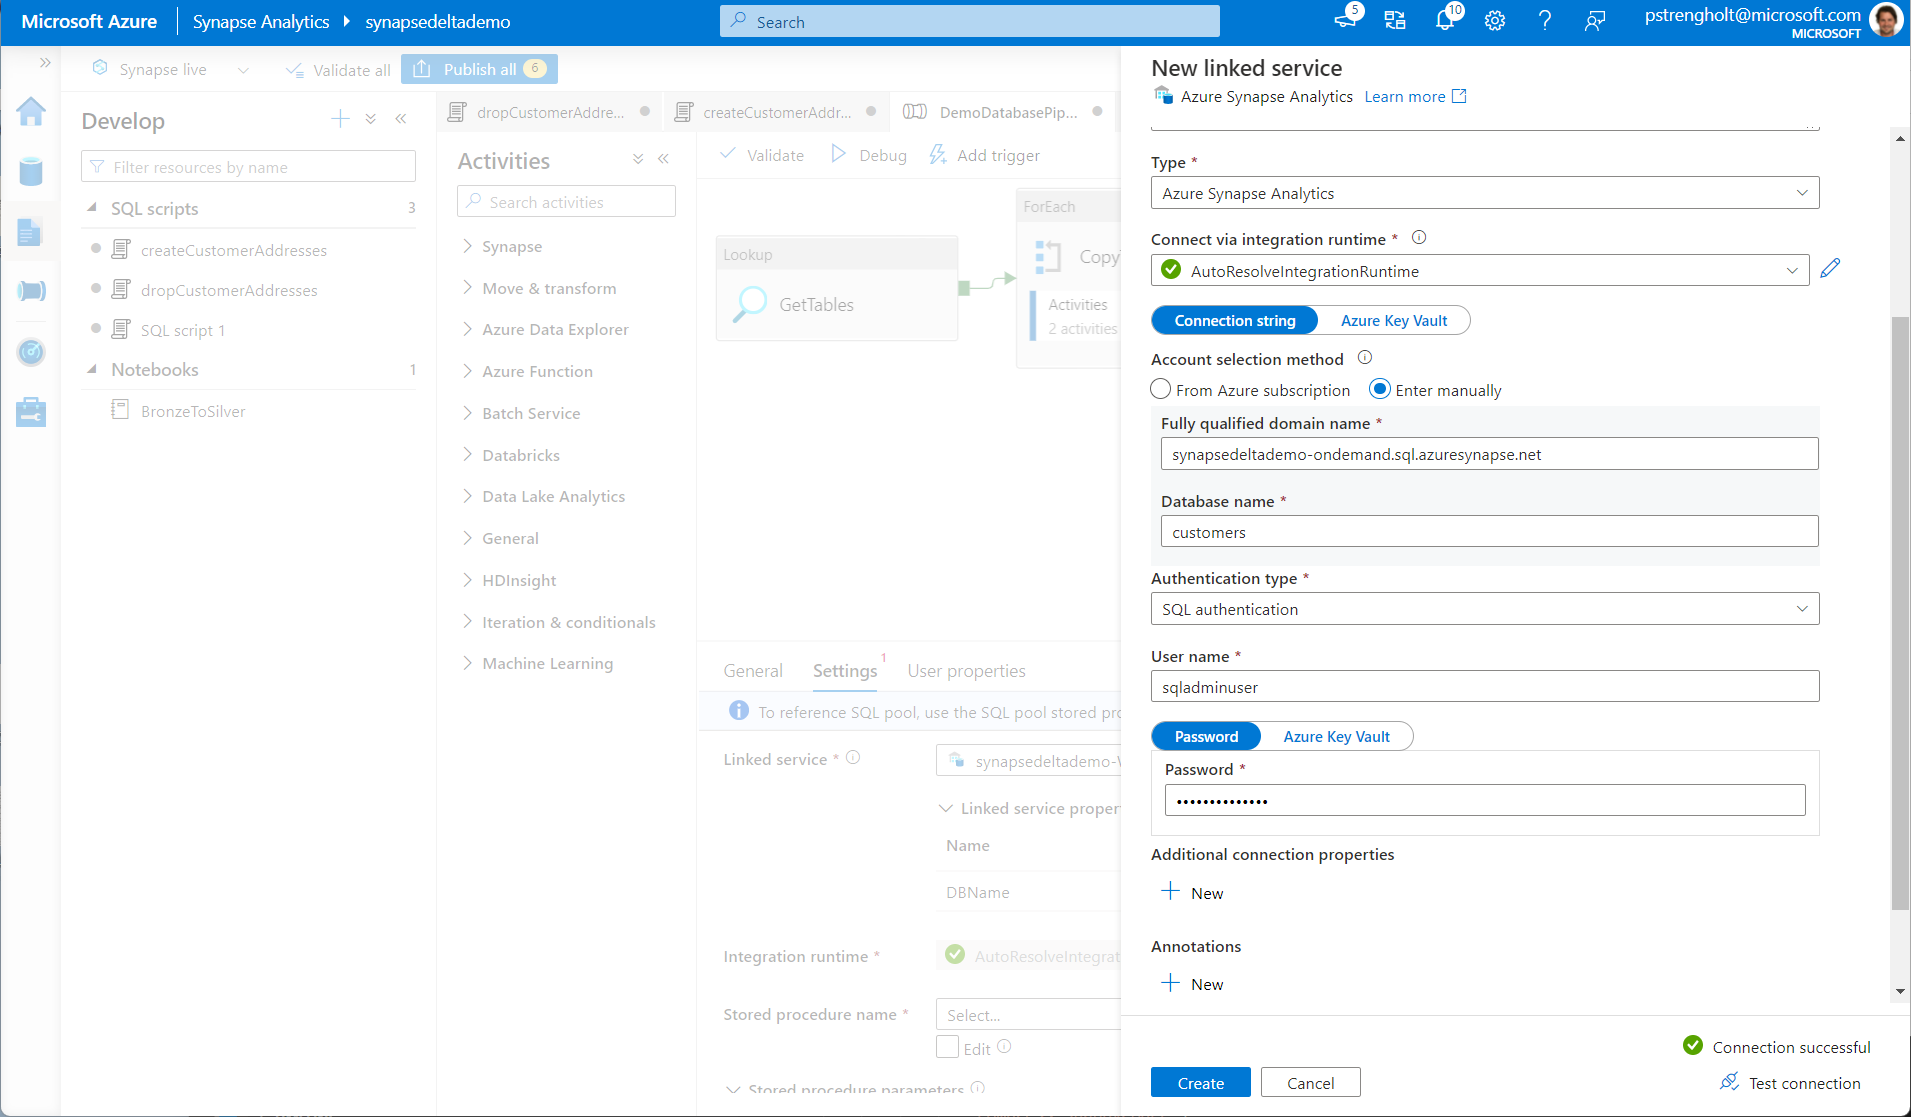
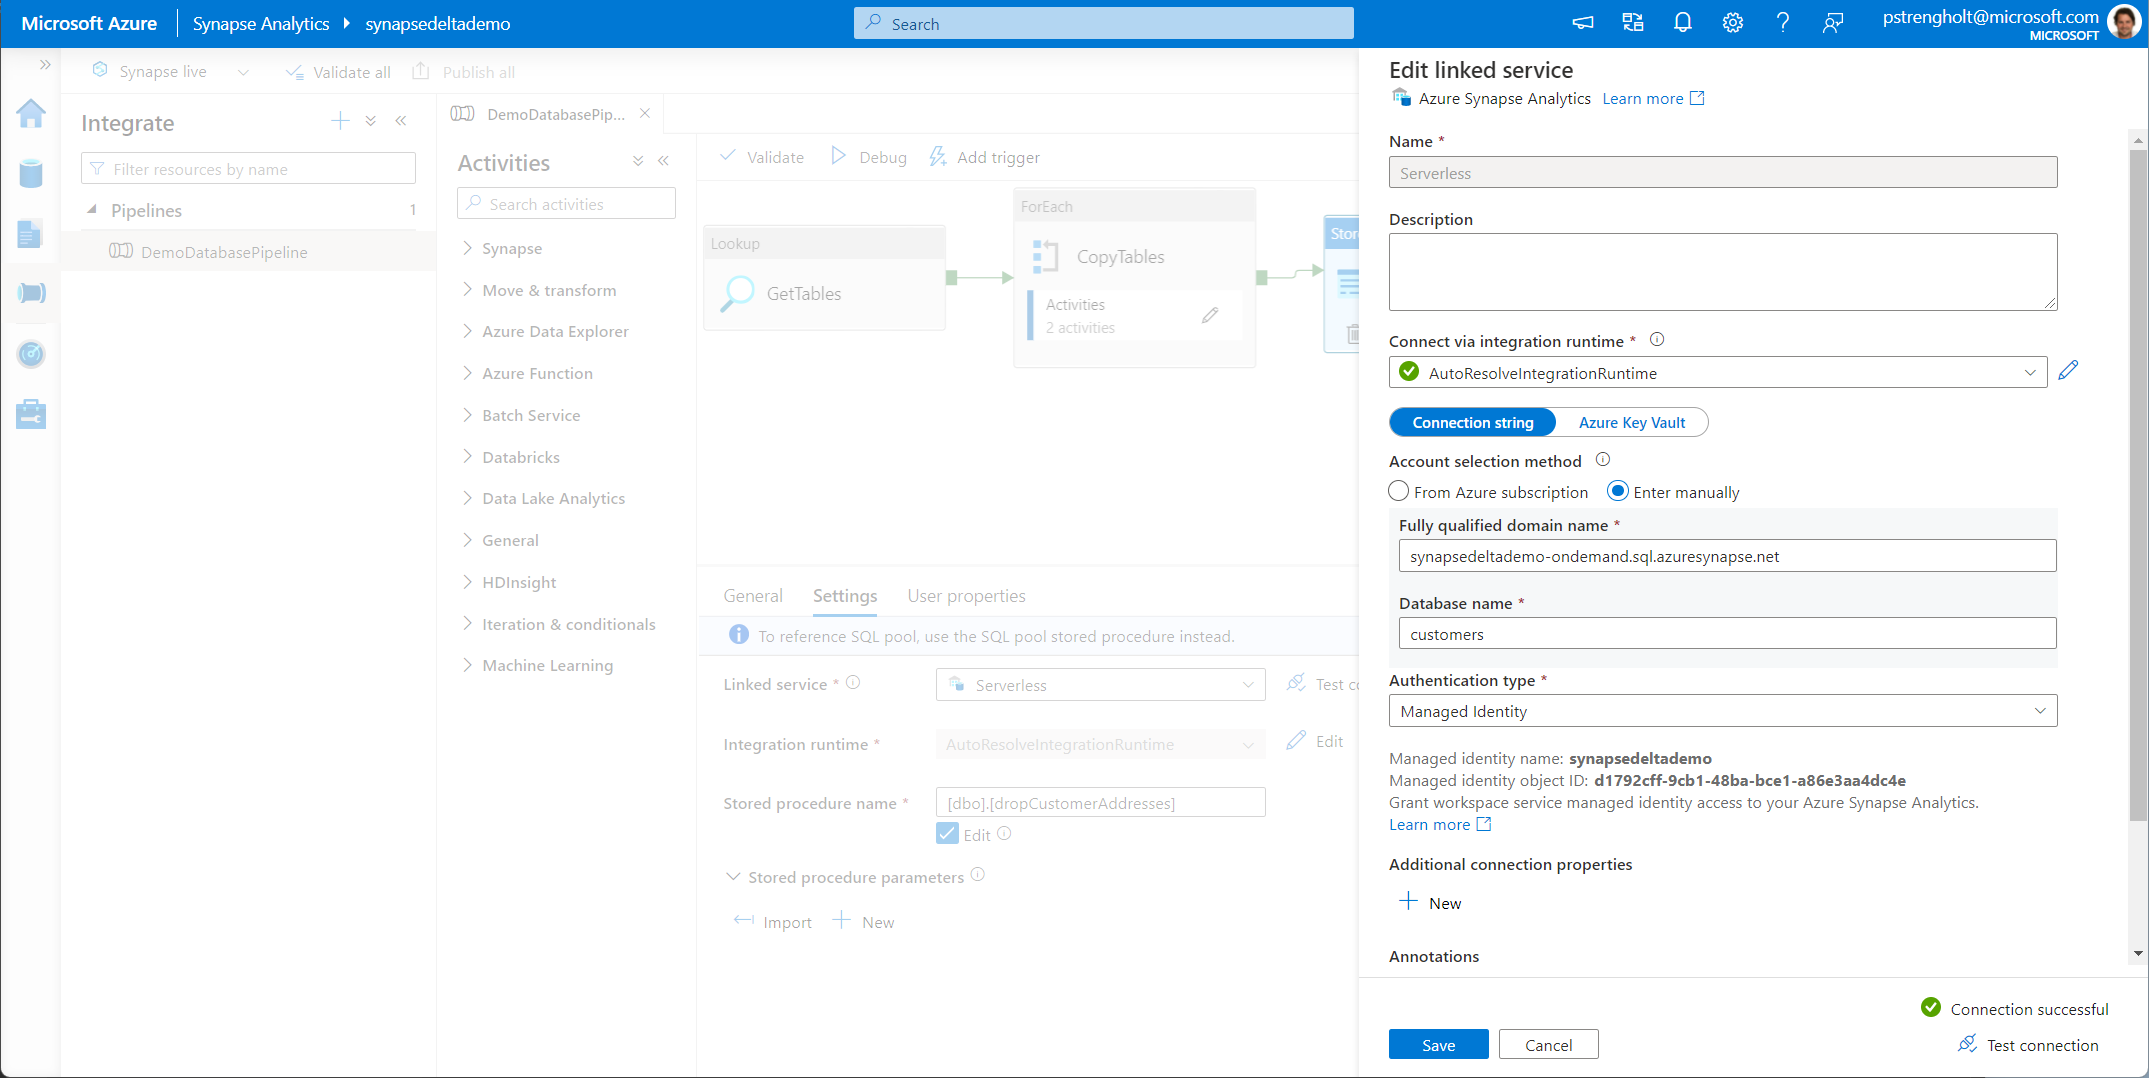
fix managed identity

diff --git a/module05/module05.md b/module05/module05.md
@@ -220,6 +220,8 @@
 
 14. Trigger your pipeline. From this point you connected all data lake layers. First the raw data is pulled into the bronze layer. Next it is moved into silver in which you use a standardized file format: Delta. Also the data is versioned, so you can time-travel and fall back. Lastly you selected all 'Current' data, combined and selected, and moved the result into a gold layer.
 
+    ![Configure linked service](../module05/screen11.png)
+
 <div align="right"><a href="#module-04---setup-delta">↥ back to top</a></div>
 
 
